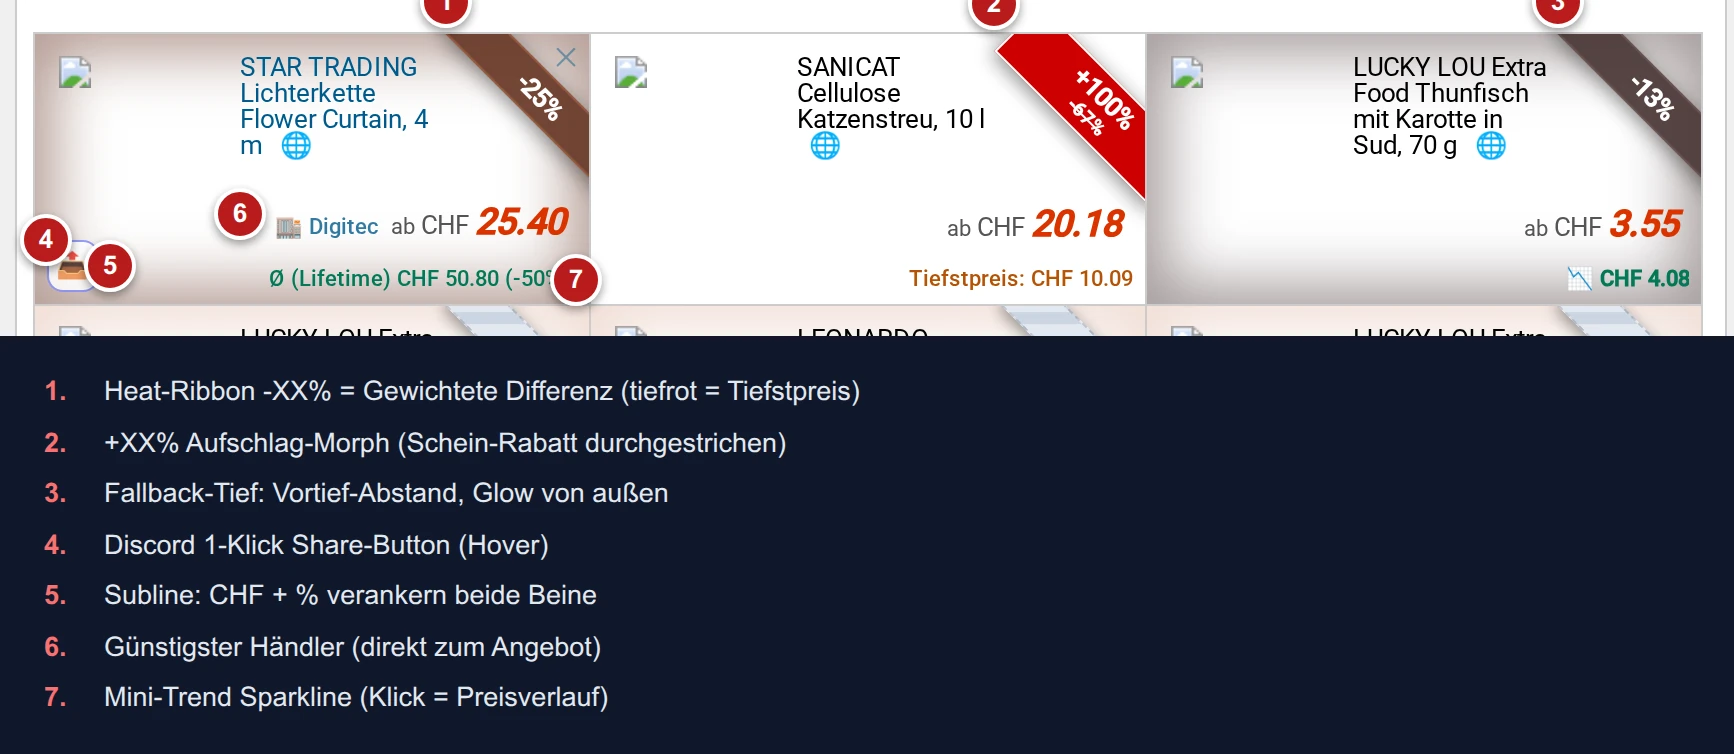
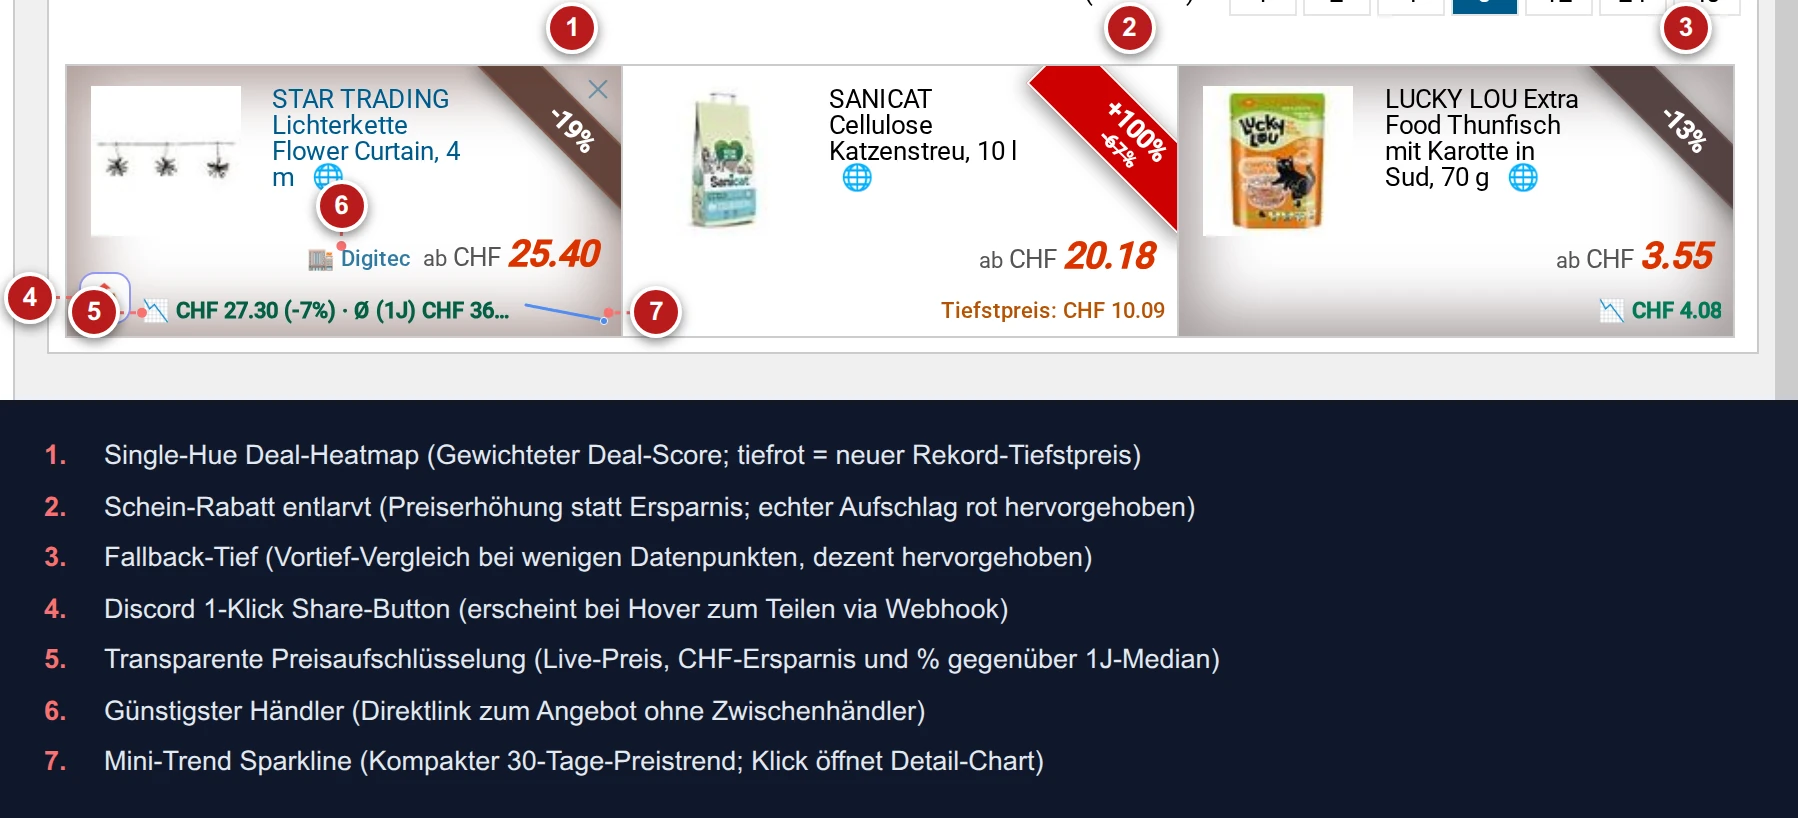
chore(shots): regenerate offline annotated screenshots and gallery

Changed region(s): [[0.0, 0.0, 1.0, 0.8846], [0.0311, 0.9151, 0.5917, 0.9456], [0.0, 0.5491, 0.0311, 0.5796]]

diff --git a/toppreise/docs/shots/index.html b/toppreise/docs/shots/index.html
@@ -125,19 +125,19 @@
 <body>
 <header>
   <h1>Toppreise.ch Suite — Screenshot Gallery</h1>
-  <div class="timestamp">Generiert: 2026-10-17 08:00:31 UTC</div>
+  <div class="timestamp">Generiert: 2026-10-17 20:33:24 UTC</div>
 </header>
 <main class="gallery-grid">
   
         <section class="gallery-card">
           <div class="card-header">
-            <h2>toolbar <span class="tag">01-toolbar.webp</span></h2>
-            <span class="meta">Snapshot: <strong>feed</strong> · 12 Callouts</span>
+            <h2>toolbar <span class="tag">01a-toolbar.webp</span></h2>
+            <span class="meta">Snapshot: <strong>feed</strong> · 8 Callouts</span>
           </div>
           <div class="card-body">
             <div class="image-wrap">
-              <a href="01-toolbar.webp" target="_blank" title="Klick für Vollbild">
-                <img src="01-toolbar.webp" alt="toolbar" loading="lazy">
+              <a href="01a-toolbar.webp" target="_blank" title="Klick für Vollbild">
+                <img src="01a-toolbar.webp" alt="toolbar" loading="lazy">
               </a>
             </div>
             <div class="legend-wrap">
@@ -146,7 +146,31 @@
                   <tr><th>#</th><th>Element / Beschreibung</th></tr>
                 </thead>
                 <tbody>
-                  <tr><td class='num'>1</td><td class='cap'>Filter-Button (Verbergen oder Dimmen je Ursache)</td></tr><tr><td class='num'>2</td><td class='cap'>Negativ-Filter (Text, Wortgrenzen)</td></tr><tr><td class='num'>3</td><td class='cap'>Min-Angebote stepper</td></tr><tr><td class='num'>4</td><td class='cap'>Nur geprüfte (ohne verifizierten Tiefstpreis)</td></tr><tr><td class='num'>5</td><td class='cap'>Fallback-Tiefs ein-/ausschließen</td></tr><tr><td class='num'>6</td><td class='cap'>Heatmap toggle (Farbe = Badge-%)</td></tr><tr><td class='num'>7</td><td class='cap'>Neue-Tiefstpreise-Modus (Feed)</td></tr><tr><td class='num'>8</td><td class='cap'>Berechnungsparameter-Popover (filtert nichts)</td></tr><tr><td class='num'>9</td><td class='cap'>Gewichtung Median/Rekord (Slider)</td></tr><tr><td class='num'>10</td><td class='cap'>Ø-Zeitraum Slider (Median-Horizont)</td></tr><tr><td class='num'>11</td><td class='cap'>Mindestpunkte Slider (dünne Historie → Fallback)</td></tr><tr><td class='num'>12</td><td class='cap'>Tiefstpreise prüfen CTA (Batch-Check, floating)</td></tr>
+                  <tr><td class='num'>1</td><td class='cap'>Filter-Button (Verbergen, Dimmen oder Hervorheben je Ursache)</td></tr><tr><td class='num'>2</td><td class='cap'>Negativ-Filter (Ausschluss nach Stichwort mit Wortgrenzen)</td></tr><tr><td class='num'>3</td><td class='cap'>Min-Angebote Stepper (Marktplatz-Filter)</td></tr><tr><td class='num'>4</td><td class='cap'>Nur geprüfte Angebote (Angebote ohne Historie verbergen/dimmen)</td></tr><tr><td class='num'>5</td><td class='cap'>Fallback-Tiefs ein-/ausschließen (geringe Historie)</td></tr><tr><td class='num'>6</td><td class='cap'>Heatmap-Umschalter (Farbe folgt der Rabatt-Tiefe)</td></tr><tr><td class='num'>7</td><td class='cap'>💎 Tiefstpreis-Sortierung (nach gewichtetem Deal-Score)</td></tr><tr><td class='num'>8</td><td class='cap'>Tiefstpreise prüfen (1-Klick Batch-Scanner)</td></tr>
+                </tbody>
+              </table>
+            </div>
+          </div>
+        </section>
+        
+        <section class="gallery-card">
+          <div class="card-header">
+            <h2>calc <span class="tag">01b-calc-popover.webp</span></h2>
+            <span class="meta">Snapshot: <strong>feed</strong> · 4 Callouts</span>
+          </div>
+          <div class="card-body">
+            <div class="image-wrap">
+              <a href="01b-calc-popover.webp" target="_blank" title="Klick für Vollbild">
+                <img src="01b-calc-popover.webp" alt="calc" loading="lazy">
+              </a>
+            </div>
+            <div class="legend-wrap">
+              <table>
+                <thead>
+                  <tr><th>#</th><th>Element / Beschreibung</th></tr>
+                </thead>
+                <tbody>
+                  <tr><td class='num'>1</td><td class='cap'>Glitch-Vorschau (Live-Chart mit Median, Rekord, Glitch-Band &amp; Erkennung)</td></tr><tr><td class='num'>2</td><td class='cap'>Gewichtung Median / Rekord (Schieberegler für Deal-Score)</td></tr><tr><td class='num'>3</td><td class='cap'>Ø-Zeitraum (Rolling Median von 30 bis 730 Tagen oder Lifetime)</td></tr><tr><td class='num'>4</td><td class='cap'>Mindestpunkte (erforderliche Datenpunkte für qualifizierte Historie)</td></tr>
                 </tbody>
               </table>
             </div>
@@ -170,31 +194,7 @@
                   <tr><th>#</th><th>Element / Beschreibung</th></tr>
                 </thead>
                 <tbody>
-                  <tr><td class='num'>1</td><td class='cap'>Heat-Ribbon -XX% = Gewichtete Differenz (tiefrot = Tiefstpreis)</td></tr><tr><td class='num'>2</td><td class='cap'>+XX% Aufschlag-Morph (Schein-Rabatt durchgestrichen)</td></tr><tr><td class='num'>3</td><td class='cap'>Fallback-Tief: Vortief-Abstand, Glow von außen</td></tr><tr><td class='num'>4</td><td class='cap'>Discord 1-Klick Share-Button (Hover)</td></tr><tr><td class='num'>5</td><td class='cap'>Subline: CHF + % verankern beide Beine</td></tr><tr><td class='num'>6</td><td class='cap'>Günstigster Händler (direkt zum Angebot)</td></tr><tr><td class='num'>7</td><td class='cap'>Mini-Trend Sparkline (Klick = Preisverlauf)</td></tr>
-                </tbody>
-              </table>
-            </div>
-          </div>
-        </section>
-        
-        <section class="gallery-card">
-          <div class="card-header">
-            <h2>settings <span class="tag">04-settings-modal.webp</span></h2>
-            <span class="meta">Snapshot: <strong>feed</strong> · 7 Callouts</span>
-          </div>
-          <div class="card-body">
-            <div class="image-wrap">
-              <a href="04-settings-modal.webp" target="_blank" title="Klick für Vollbild">
-                <img src="04-settings-modal.webp" alt="settings" loading="lazy">
-              </a>
-            </div>
-            <div class="legend-wrap">
-              <table>
-                <thead>
-                  <tr><th>#</th><th>Element / Beschreibung</th></tr>
-                </thead>
-                <tbody>
-                  <tr><td class='num'>1</td><td class='cap'>Abschnitt: 🖥 ANSICHT</td></tr><tr><td class='num'>2</td><td class='cap'>Abschnitt: 🌐 REVIEW-SUCHE</td></tr><tr><td class='num'>3</td><td class='cap'>Abschnitt: 💎 SORTIEREN</td></tr><tr><td class='num'>4</td><td class='cap'>Abschnitt: 🧹 FILTERN</td></tr><tr><td class='num'>5</td><td class='cap'>Abschnitt: 🔔 PREISALARM</td></tr><tr><td class='num'>6</td><td class='cap'>Abschnitt: 💬 DISCORD SHARE</td></tr><tr><td class='num'>7</td><td class='cap'>Abschnitt: 💾 DATEN &amp; CACHE</td></tr>
+                  <tr><td class='num'>1</td><td class='cap'>Single-Hue Deal-Heatmap (Gewichteter Deal-Score; tiefrot = neuer Rekord-Tiefstpreis)</td></tr><tr><td class='num'>2</td><td class='cap'>Schein-Rabatt entlarvt (Preiserhöhung statt Ersparnis; echter Aufschlag rot hervorgehoben)</td></tr><tr><td class='num'>3</td><td class='cap'>Fallback-Tief (Vortief-Vergleich bei wenigen Datenpunkten, dezent hervorgehoben)</td></tr><tr><td class='num'>4</td><td class='cap'>Discord 1-Klick Share-Button (erscheint bei Hover zum Teilen via Webhook)</td></tr><tr><td class='num'>5</td><td class='cap'>Transparente Preisaufschlüsselung (Live-Preis, CHF-Ersparnis und % gegenüber 1J-Median)</td></tr><tr><td class='num'>6</td><td class='cap'>Günstigster Händler (Direktlink zum Angebot ohne Zwischenhändler)</td></tr><tr><td class='num'>7</td><td class='cap'>Mini-Trend Sparkline (Kompakter 30-Tage-Preistrend; Klick öffnet Detail-Chart)</td></tr>
                 </tbody>
               </table>
             </div>
@@ -204,7 +204,7 @@
         <section class="gallery-card">
           <div class="card-header">
             <h2>search <span class="tag">03-search-cards.webp</span></h2>
-            <span class="meta">Snapshot: <strong>search</strong> · 3 Callouts</span>
+            <span class="meta">Snapshot: <strong>search</strong> · 4 Callouts</span>
           </div>
           <div class="card-body">
             <div class="image-wrap">
@@ -218,7 +218,31 @@
                   <tr><th>#</th><th>Element / Beschreibung</th></tr>
                 </thead>
                 <tbody>
-                  <tr><td class='num'>1</td><td class='cap'>Inline-Pill: 1-zeilig über dem Preisblock</td></tr><tr><td class='num'>2</td><td class='cap'>Prüfen-Pill: ungeprüft, gestreift, nie Heat-Farbe</td></tr><tr><td class='num'>3</td><td class='cap'>Günstigste-Variante Label bleibt nativ positioniert</td></tr>
+                  <tr><td class='num'>1</td><td class='cap'>Verifizierte Rabatt-Pill (Kompakte 1-zeilige Anzeige über dem Händlerangebot)</td></tr><tr><td class='num'>2</td><td class='cap'>Ungeprüft-Pill (Gestreiftes Signal für noch nicht verifizierte Varianten; Klick prüft Historie)</td></tr><tr><td class='num'>3</td><td class='cap'>Günstigste Variante (Native Toppreise-Kennzeichnung bleibt erhalten)</td></tr><tr><td class='num'>4</td><td class='cap'>Produktfamilien-Gruppierung (AirPods 5 Varianten bleiben sauber im gemeinsamen Container)</td></tr>
+                </tbody>
+              </table>
+            </div>
+          </div>
+        </section>
+        
+        <section class="gallery-card">
+          <div class="card-header">
+            <h2>settings <span class="tag">04-settings-modal.webp</span></h2>
+            <span class="meta">Snapshot: <strong>feed</strong> · 5 Callouts</span>
+          </div>
+          <div class="card-body">
+            <div class="image-wrap">
+              <a href="04-settings-modal.webp" target="_blank" title="Klick für Vollbild">
+                <img src="04-settings-modal.webp" alt="settings" loading="lazy">
+              </a>
+            </div>
+            <div class="legend-wrap">
+              <table>
+                <thead>
+                  <tr><th>#</th><th>Element / Beschreibung</th></tr>
+                </thead>
+                <tbody>
+                  <tr><td class='num'>1</td><td class='cap'>Deckkraft / Dimmung für gefilterte Angebote (Schieberegler)</td></tr><tr><td class='num'>2</td><td class='cap'>Preisalarm Auto-Fill: Zielpreis (%) &amp; Dauer</td></tr><tr><td class='num'>3</td><td class='cap'>Discord Webhook: Direkte 1-Klick Deal-Integration (lokal gespeichert)</td></tr><tr><td class='num'>4</td><td class='cap'>Discord Layout-Baukasten mit Live-Markdown-Vorschau</td></tr><tr><td class='num'>5</td><td class='cap'>Cache-Verwaltung: TTL-Regler, Speicherbereinigung &amp; Konfigurations-Export</td></tr>
                 </tbody>
               </table>
             </div>
